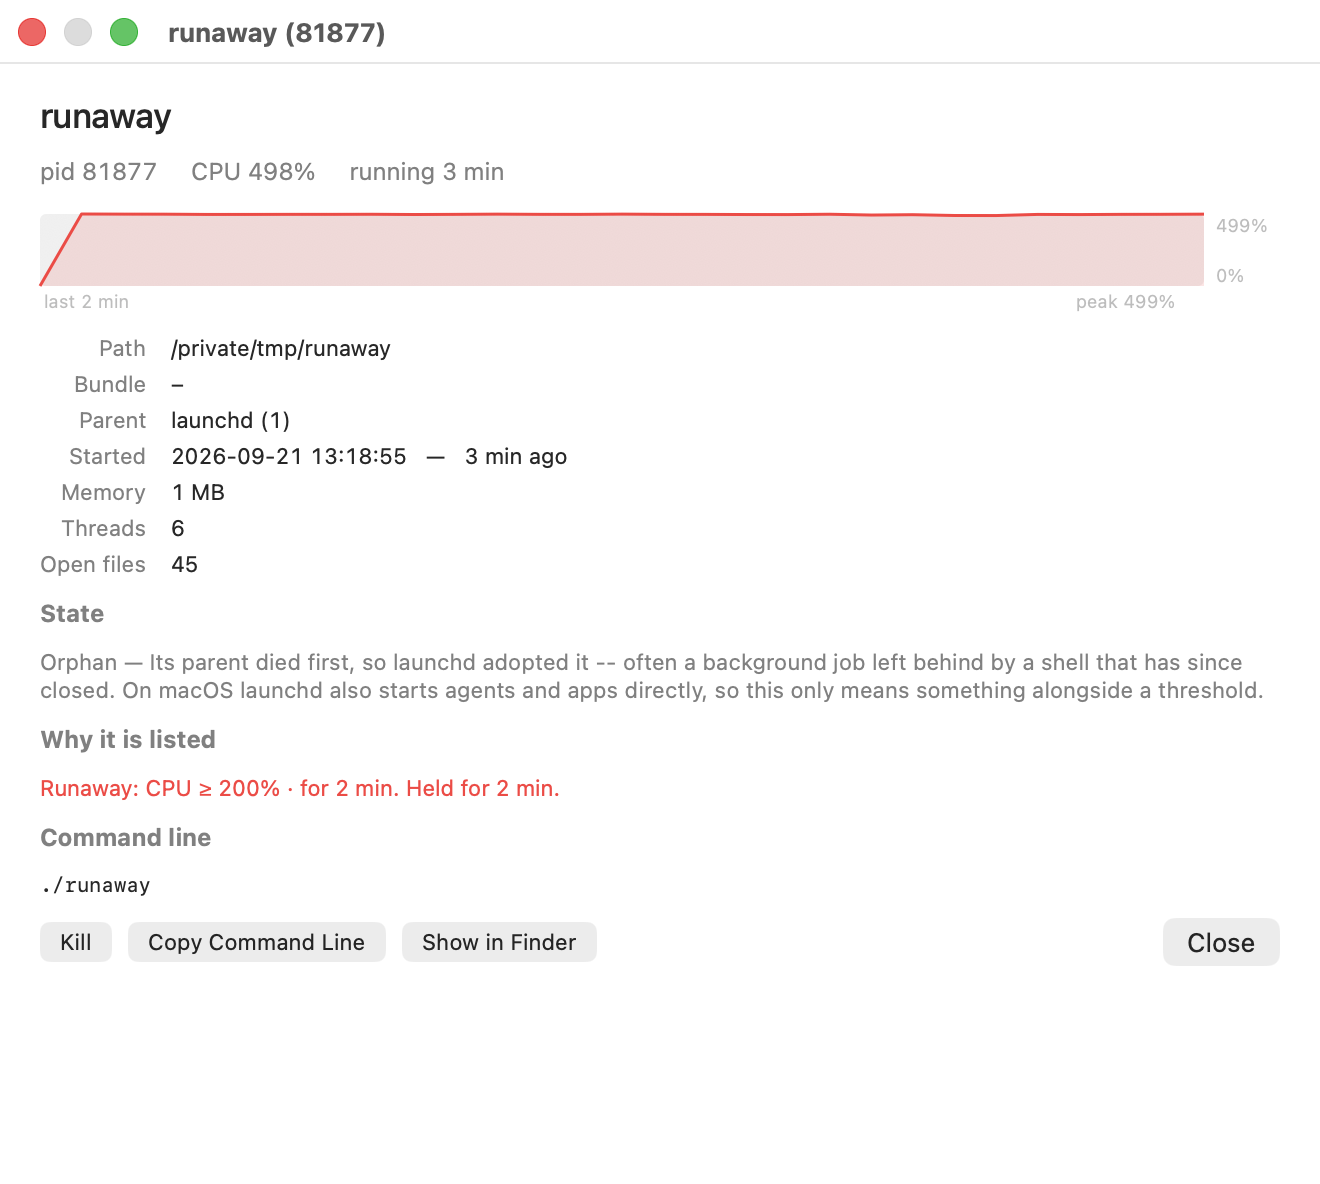
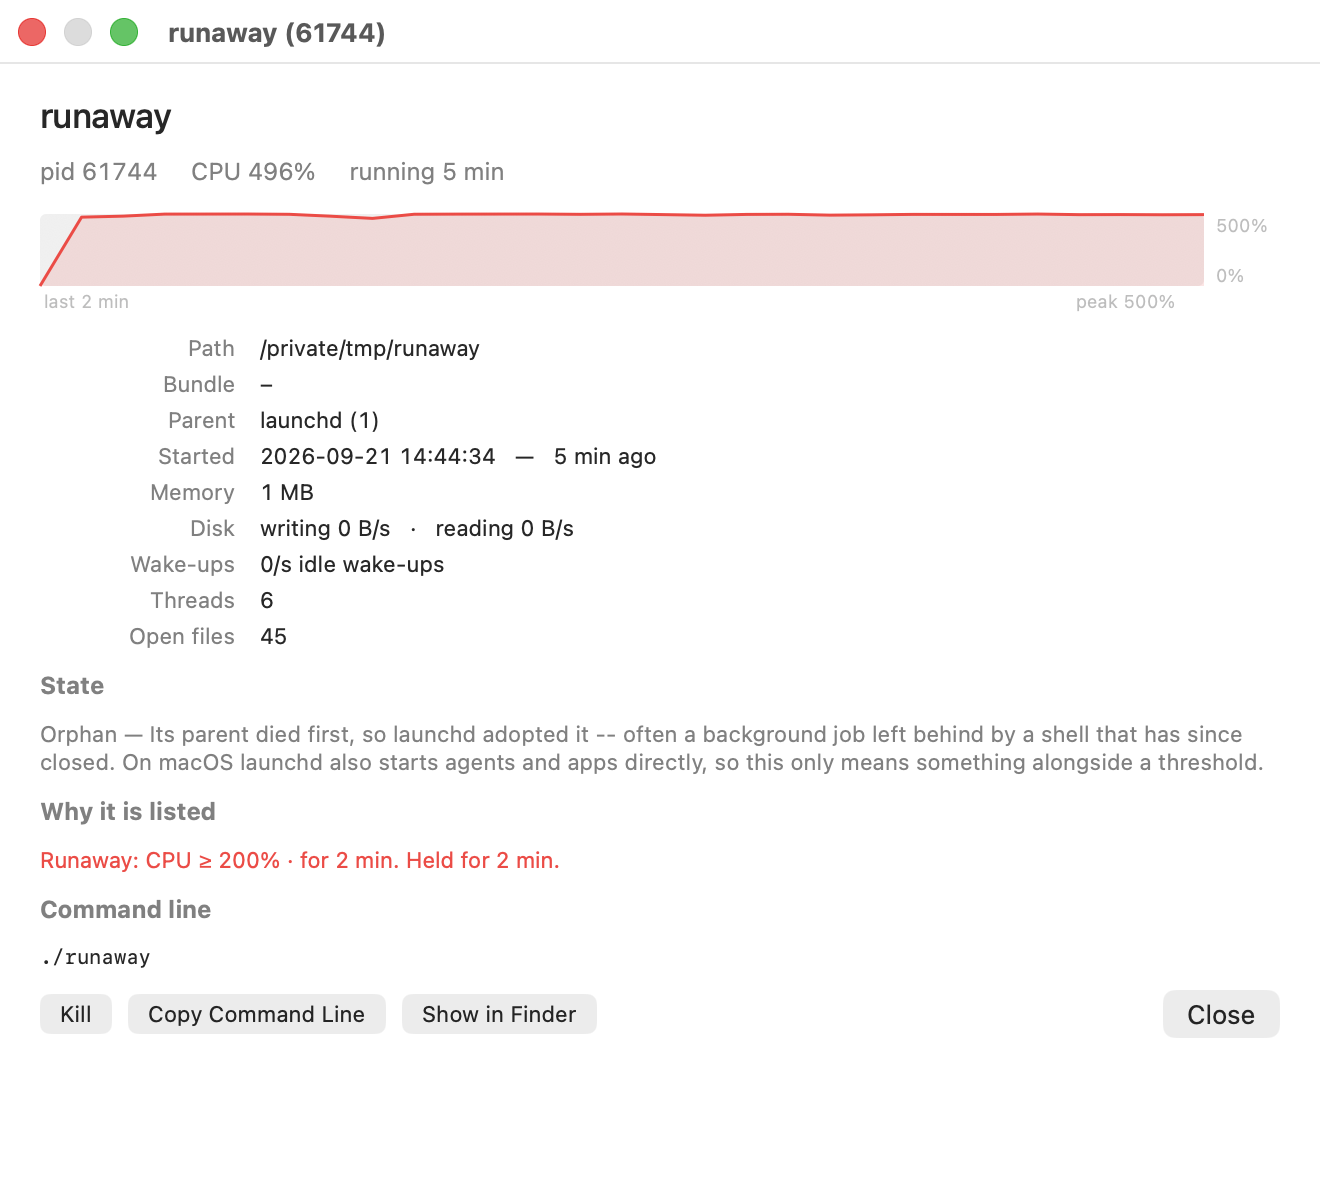
Read the notification permission back, and document all of it
Notify.authorized was only ever set by asking, so a launch that inherited a
switched-on setting left it nil and post() quietly did nothing for someone who
had already said yes. Authorization belongs to the bundle and outlives the
process, so it is read back at launch -- without asking, which would put a
prompt in front of someone who had not touched anything.

Checked rather than assumed, in a throwaway bundle under a different identifier
so it could not spend the real app's answer: UNUserNotificationCenter.current()
does not raise from an ad-hoc signed bundle, getNotificationSettings answers,
and add() without authorization fails with UNErrorDomain 1 rather than
crashing. post() guards on authorization anyway.

The README covers the two new conditions with the measurement behind them, the
history and what its three outcomes mean, the exclusions, pause, the fourth
state of the mark, and the notification switch -- including why it is off, which
is that for a menu bar you can see, the mark is the alert.

The screenshots are retaken against the new layout. The history in the picture
is a real one, recorded by the same ticks that drove the verdict: the writer was
killed seventy seconds in, and the entry closed itself at fifty-five seconds and
reads "went away". An earlier attempt assembled the list for the photograph by
appending a closed copy of every open entry, which made the app look like it
records everything twice.

diff --git a/app/Notify.swift b/app/Notify.swift
@@ -19,6 +19,24 @@ enum Notify {
     /// Whether the centre has said yes. nil until it has been asked.
     private(set) static var authorized: Bool?
 
+    /// Reads the standing answer without asking for one.
+    ///
+    /// Authorization belongs to the bundle and outlives the process, so a
+    /// launch that inherits a switched-on setting has to find out where it
+    /// stands. Without this `authorized` stayed nil after every relaunch and
+    /// post() quietly did nothing for someone who had already said yes.
+    static func refresh() {
+        UNUserNotificationCenter.current().getNotificationSettings { s in
+            DispatchQueue.main.async {
+                switch s.authorizationStatus {
+                case .authorized, .provisional, .ephemeral: authorized = true
+                case .denied: authorized = false
+                default: authorized = nil
+                }
+            }
+        }
+    }
+
     /// Asked for only when the switch is turned on, and only once per launch.
     static func request(_ done: @escaping (Bool) -> Void) {
         UNUserNotificationCenter.current()

diff --git a/app/main.swift b/app/main.swift
@@ -92,6 +92,10 @@ final class AppDelegate: NSObject, NSApplicationDelegate, NSMenuDelegate {
 
         buildMenu()
         drawMark()
+        // Where the notification permission stands, without asking for it:
+        // the answer belongs to the bundle and outlives the process, so a
+        // launch inheriting a switched-on setting has to look it up.
+        if settings.notify { Notify.refresh() }
         refresh()
         startTimer()
     }

diff --git a/README.md b/README.md
@@ -2,14 +2,14 @@
 
 # macos-process-reaper — `Reaper`
 
-**A menu bar watch for the processes nobody remembers starting: sustained CPU and memory, plus the four broken states no threshold describes — zombie, orphan, windowless, not responding. It tells you; it never kills anything for you.** Needs no privileges, no daemon and no helper. Built on an M-series Mac and universal for Intel too.
+**A menu bar watch for the processes nobody remembers starting: sustained CPU, memory, disk writes and wake-ups, plus the four broken states no threshold describes — zombie, orphan, windowless, not responding. It tells you, remembers what it told you, and never kills anything for you.** Needs no privileges, no daemon and no helper. Built on an M-series Mac and universal for Intel too.
 
 [![build](https://github.com/beomwookang/macos-process-reaper/actions/workflows/build.yml/badge.svg)](https://github.com/beomwookang/macos-process-reaper/actions/workflows/build.yml)
 [![Platform](https://img.shields.io/badge/platform-macOS%2013%2B-lightgrey)](#requirements)
 [![Apple Silicon](https://img.shields.io/badge/Apple%20Silicon-native-black)](#requirements)
 [![Language](https://img.shields.io/badge/Swift-AppKit%20only-orange)](app/)
 [![Privileges](https://img.shields.io/badge/privileges-none-brightgreen)](#permissions)
-[![Checks](https://img.shields.io/badge/checks-188-blue)](tests/)
+[![Checks](https://img.shields.io/badge/checks-261-blue)](tests/)
 [![License: MIT](https://img.shields.io/badge/License-MIT-yellow.svg)](LICENSE)
 
 > A Mac that is hot, or slow, or out of memory usually has one process behind it,
@@ -42,11 +42,15 @@ choice rather than a configuration exercise.
 
 | | |
 |---|---|
-| A mark that means one thing | Calm, amber while a rule is counting, red with a count once one holds |
-| Four kinds of trouble | Sustained CPU, memory, uptime — and zombie, orphan, windowless, not responding |
-| Profiles, then rules | Pick Quiet, Balanced or Aggressive; adjust the numbers underneath if you want to |
+| A mark that means one thing | Calm, amber while a rule is counting, red with a count once one holds, faint while paused |
+| Six things to measure | Sustained CPU, memory, uptime, disk write rate, idle wake-ups — each optional, all conjoined |
+| Four kinds of broken | Zombie, orphan, windowless, not responding |
+| Profiles, then rules | Pick Quiet, Balanced or Aggressive; the numbers underneath are there when you want them |
 | Sustain, so a build is not a bug | A condition has to keep holding before anything is said about it |
-| Detail when a row is not enough | Full command line, the chain of parents, threads, open files, a CPU trace |
+| A memory | What was flagged, when, for how long, how bad it got, and whether you ended it |
+| An escape hatch | Never flag this app, written against the bundle, so its helpers go too |
+| Pause | Fifteen minutes, an hour or four, for deliberately running something that would trip everything |
+| Detail when a row is not enough | Full command line, the chain of parents, threads, open files, disk, wake-ups, a CPU trace |
 | No privileges | No daemon, no helper, no `sudo`, no root. Installing is copying the app |
 | Nothing automatic | A rule flags. A person decides. There is no setting that changes this |
 
@@ -106,6 +110,7 @@ to ask you.
 | Outline, in the menu bar's own ink | Nothing flagged |
 | Amber | A rule's conditions are met and its sustain is still counting |
 | Red, with a count | That many processes are flagged |
+| The same outline, faint | Paused. Watching is suspended, and the mark says so rather than looking calm |
 
 ![The three states of the menu bar mark: a plain outlined chip, an amber chip, and a red chip with the number three beside it](assets/mark-states.png)
 
@@ -137,9 +142,20 @@ A rule that is switched on but cannot see what it needs says so, in orange, on
 its own line. Silence from a watchdog is meant to mean "nothing is wrong", so a
 rule that is quietly unable to look must not be silent.
 
-**The table** is what the rules make of the machine right now: what is flagged,
-then what is counting towards being flagged. Right-click a row for the two
-signals and the parent; double-click it for everything else.
+**Rules** is behind a disclosure, closed by default, with a line saying how many
+are switched on and how many cannot currently see. Nine rules at two lines each
+make a window taller than a laptop screen, and the profile is the decision most
+people make once.
+
+**Never flagged** appears above the table once there is something in it, and not
+at all before. A row's context menu writes one, against the app bundle, so
+excluding a browser excludes the six helpers it will start next.
+
+**The table** has three modes. *Flagged* is what the rules make of the machine
+right now — what is flagged, then what is counting towards being flagged.
+*All, by CPU* is every process you own. *History* is what was flagged and is
+not any more. Right-click a live row for the two signals, the parent and the
+exclusion; double-click it for everything else.
 
 ![The Processes window: the Aggressive profile selected, seven rules with their numbers and states, two of them marked inactive because the accessibility checks are off, and a table of flagged processes ending in Kill and Parent buttons](assets/window.png)
 
@@ -148,7 +164,25 @@ Two things in that picture are worth pointing at. The zombie's button says
 only thing that clears it. And the two rules using the accessibility states say
 **inactive**, with the reason, rather than sitting there flagging nothing.
 
-Double-clicking a row opens everything the row had no space for:
+### History
+
+The app was otherwise instantaneous: it knew what was wrong now and forgot it
+the moment the process exited. That leaves the question it was built for — *my
+Mac was hot an hour ago, what was it?* — unanswered for anyone who was not
+watching the menu bar at the time, which is most of the time.
+
+An entry is a process and a rule together, since the same process flagged by a
+different rule is a different thing to have happened. It records when the rule
+began holding rather than when the sustain elapsed, the worst readings rather
+than the last, and which of three things happened: it **went away**, you
+**ended it**, or it **still** has not stopped. That last distinction is most of
+why the entry is worth keeping. The log survives a relaunch, and anything still
+open when the app stopped is closed at the last tick that saw it rather than
+left looking current.
+
+![The History tab: three entries, one process still flagged after two minutes, one that went away after fifty-five seconds, and a zombie, each with the rule that flagged it, when it began, how long it lasted and its worst readings](assets/history.png)
+
+Double-clicking a live row opens everything the row had no space for:
 
 ![The detail window for a runaway process: a CPU trace rising past 500 per cent, its path, parent, start time, thread and open-file counts, the state explained in a sentence, the rule that flagged it, and its full command line](assets/detail.png)
 
@@ -164,6 +198,22 @@ Double-clicking a row opens everything the row had no space for:
 you edited, re-adding one you deleted — and leaves profiles of your own alone.
 They are matched on identity, not name, so renaming one does not turn it into a
 second one.
+
+## Two more things to measure
+
+Neither needs a permission, and neither costs anything to gather: both come from
+`rusage_info_v4`, which every sample already reads for CPU and memory. Measured
+on one machine, of 495 processes owned by the user, cumulative disk reads are
+non-zero for 474, writes for 224 and package idle wake-ups for 403.
+
+**Disk write rate** catches what CPU and memory cannot see. A log nobody
+rotates, or a sync loop, costs almost nothing to run and fills a disk. The read
+rate is sampled and shown but is not a condition: a process reading hard is
+usually doing its job, where one writing hard for hours usually is not.
+
+**Idle wake-ups** is the battery condition. A process can be cheap on CPU and
+still never let the package idle, which is the figure behind Activity Monitor's
+energy impact.
 
 ## The four states, and what they can actually tell you
 
@@ -267,12 +317,13 @@ nothing has to run as root to leave them out.
 - **Kill anything on its own.** A rule flags; a person decides. There is no
   setting for this. An app that ended processes by itself would be a worse
   version of the problem it exists to find.
-- **Notify.** The mark is the alert. A notification for something already red in
-  the corner of the screen is noise.
-- **Per-app whitelists or per-app limits.** Profiles cover the case this was
-  built for. App Tamer's per-app model is a bigger idea than this needs yet.
-- **Throttle or suspend.** It watches and reports. Holding a process at 20% of a
-  core is a different program.
+- **Notify by default.** The switch is there, under Notify When Flagged, because
+  the mark is not on screen in a full-screen app and the premise is that you
+  should not have to think to look. It is off until you ask: for a menu bar that
+  is visible, the mark is the alert and a notification on top of it is noise.
+- **Per-app limits.** Excluding an app is as far as this goes. Holding one at
+  twenty per cent of a core is a different program.
+- **Throttle or suspend.** It watches and reports.
 - **Run as root**, install a daemon, a helper, or a `sudoers` rule.
 
 ## Overhead
@@ -303,7 +354,7 @@ ceiling each.
 
 ```sh
 make            # build/Reaper.app, universal, ad-hoc signed
-make test       # ./build/tests -- logic and drawing, no windows, 188 checks
+make test       # ./build/tests -- logic and drawing, no windows, 261 checks
 make app        # the bundle only
 make install    # copy to /Applications
 make uninstall  # remove the app and the login item
@@ -353,7 +404,7 @@ There is not much, which is the point.
 |---|---|
 | `/Applications/Reaper.app` | The app. Written by `make install`, removed by `make uninstall` |
 | `~/Library/LaunchAgents/com.local.reaper.plist` | The login item, written only if you turn it on. It runs `open -a <the bundle it was switched on from>` and nothing else |
-| `com.local.reaper` in your user defaults | Profiles, the active profile, poll interval, the Inspect Apps switch |
+| `com.local.reaper` in your user defaults | Profiles, the active profile, the exclusions, the flag history, poll interval, and the Inspect Apps, Notify and Pause settings |
 
 No daemon, no LaunchDaemon, no `/etc/sudoers.d` entry, no helper binary, nothing
 owned by root, and nothing written outside your home directory except the bundle
